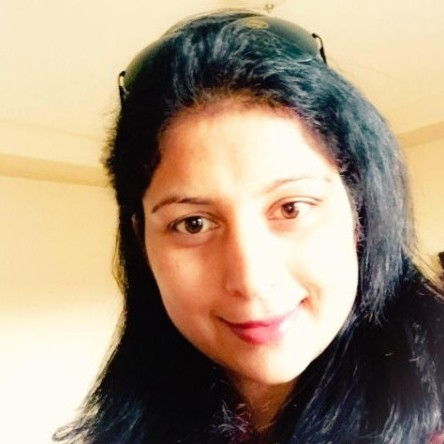
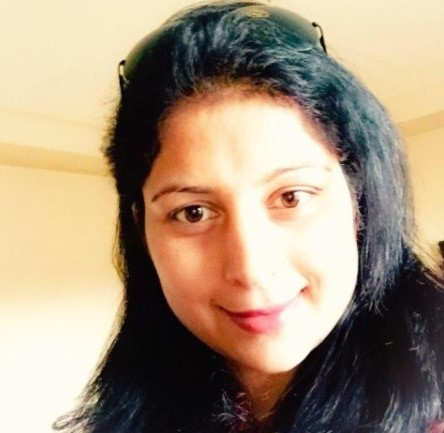
feat: implement responsive TestimonialsSection component with auto-scrolling carousel and testimonial cards

diff --git a/frontend/src/components/sections/TestimonialsSection.tsx b/frontend/src/components/sections/TestimonialsSection.tsx
@@ -60,7 +60,7 @@ function TestimonialCard({ t, onExpandChange }: { t: typeof testimonials[0], onE
       <div className="relative flex flex-col h-full w-full bg-linear-to-b from-[#080d1a] to-[#04060d] md:bg-[#080d1a] pb-10 sm:pb-12 shadow-[0_0_20px_rgba(0,168,255,0.15)] md:shadow-[0_0_35px_rgba(0,168,255,0.25)] border border-[#00a8ff]/20 rounded-xl overflow-visible transition-all duration-300 md:hover:shadow-[0_0_50px_rgba(0,168,255,0.4)] md:hover:-translate-y-1">
 
         {/* Upper Half: Image with Blue Border */}
-        <div className="w-full shrink-0 h-64 sm:h-74 pb-0">
+        <div className="w-full shrink-0 h-74 pb-0">
           <div className="w-full h-full border border-[#00a8ff]/30 rounded-t-xl overflow-hidden shadow-[0_0_15px_rgba(0,168,255,0.1)]">
             <img src={t.image} alt={t.name} className="w-full h-full object-cover object-top" loading="lazy" />
           </div>
